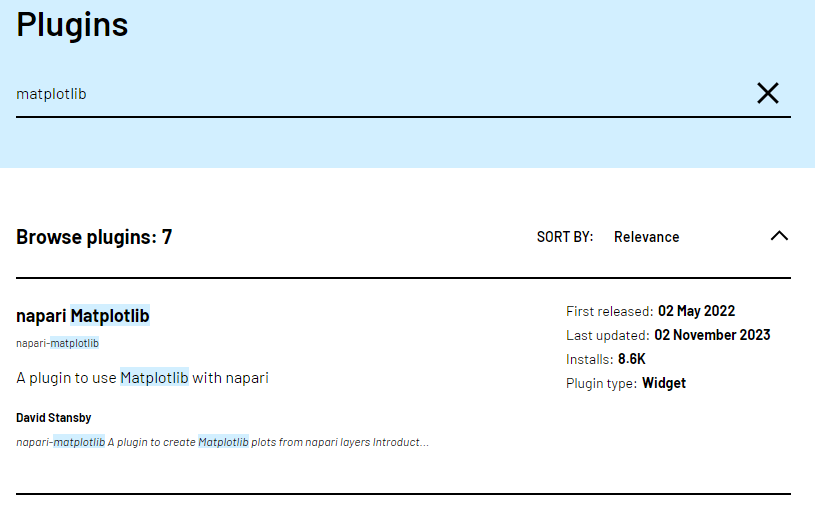
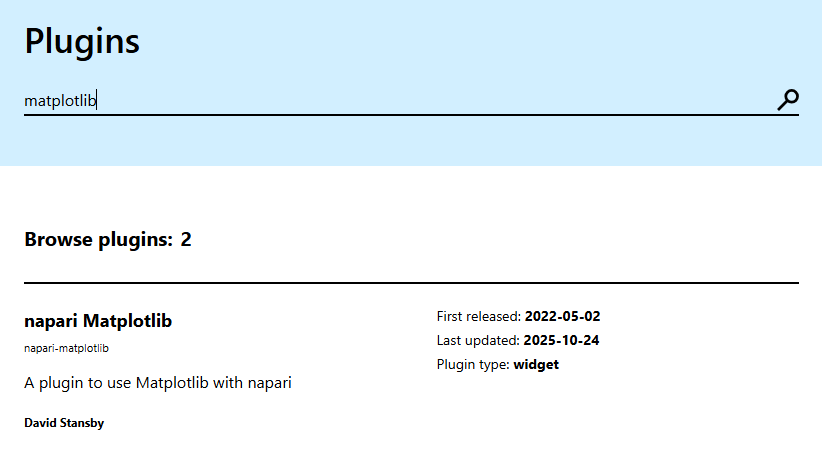
remove references to napari hub activity or installs

diff --git a/episodes/image-display.md b/episodes/image-display.md
@@ -64,11 +64,8 @@ Let's start by going to the napari hub and searching for 'matplotlib':
 
 You should see 'napari Matplotlib' appear in the list (if not, try scrolling 
 further down the page). If we click on `napari matplotlib` this opens a summary 
-of the plugin with links to the documentation. There's also a useful 'Activity' 
-tab that summarises the number of installs and maintenance history of the plugin:
-
-![](fig/napari-hub-activity.png
-){alt="Screenshot of napari-matplotlib's activity tab on napari hub"}
+of the plugin with links to the documentation and github repository containing 
+the plugin's source code.
 
 Now that we've found the plugin we want to use, let's go ahead and install it 
 in Napari. Note that some plugins have special requirements for installation, 
@@ -96,7 +93,7 @@ Napari hub contains hundreds of plugins with varying quality, written by many
 different developers. It can be difficult to choose which plugins to use!
 
 - Search for cell tracking plugins on [Napari hub](https://www.napari-hub.org/)
-- Look at some of the plugin summaries and 'Activity' tabs
+- Look at some of the plugin summaries, documentation and github repositories
 - What factors could help you decide if the plugin is well maintained?
 - What factors could help you decide if the plugin is popular with Napari users?
 
@@ -110,9 +107,8 @@ Some factors to look for:
 
 **Last updated**  
 Check when the plugin was last updated - was it recently? This is shown in the 
-search list summary and under 'Maintenance' in the activity tab. In the activity 
-tab, you can also look at a graph summarising the 'commits' over the past year - 
-'commits' are made when someone updates their plugin with new changes.
+search list summary and in the left sidebar when you open the plugin's page on 
+napari-hub.
 
 **Documentation**  
 Is the plugin summary (+ any linked documentation) detailed enough to explain 
@@ -122,12 +118,11 @@ how to use the plugin?
 
 Some factors to look for:
 
-**Installs**  
-Check how many times a plugin has been installed - a higher number of installs 
-usually means it's more popular in the Napari community. The installs are shown 
-in the search list summary and under 'Usage' in the activity tab. In the 
-activity tab, you can also look at a graph summarising the installs over the 
-past year.
+**Stars on github**  
+If you open a plugin's linked github repository, you can see the number of 
+'stars' in the top right. More stars tend to indicate a plugin is more popular - 
+although this isn't always the case! Github is mainly used by plugin developers, 
+so a plugin with few stars may still have many people using it. 
 
 **Image.sc**  
 It can also be useful to search the plugin's name on the 
